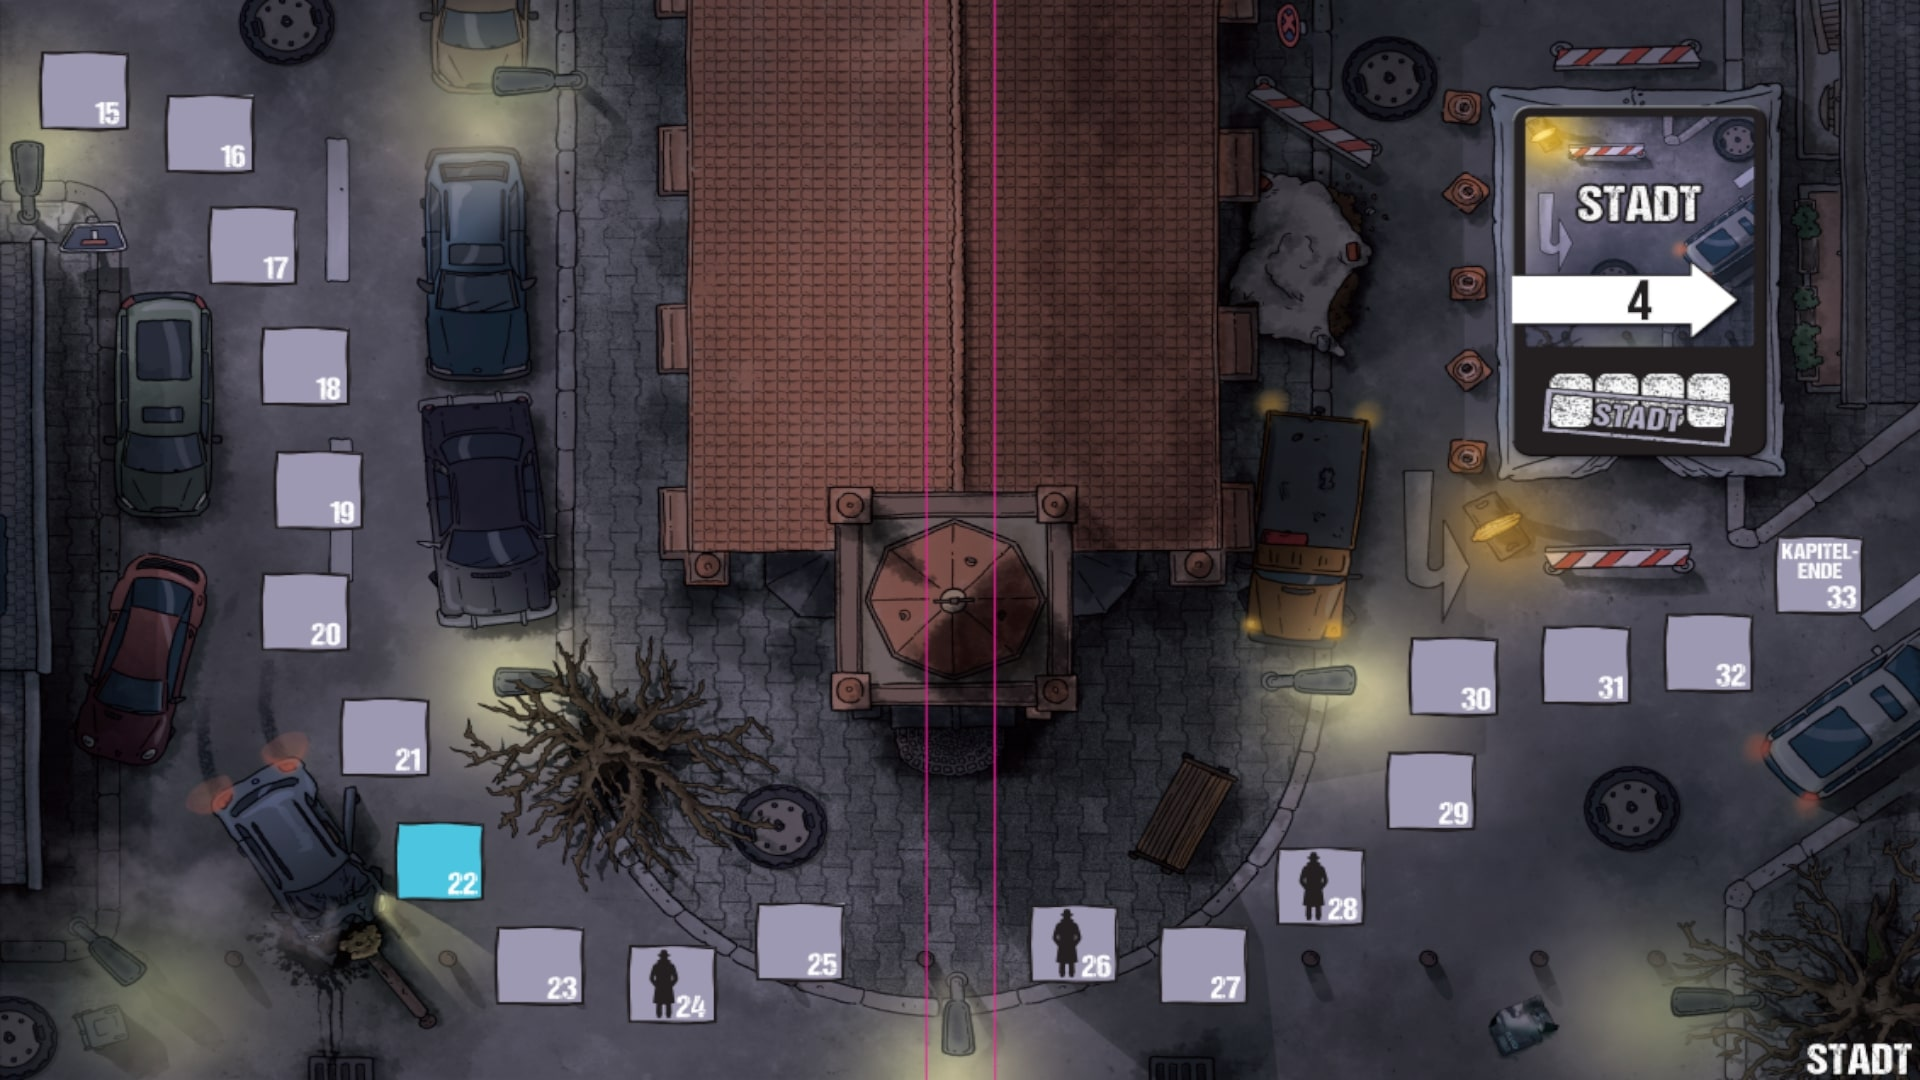
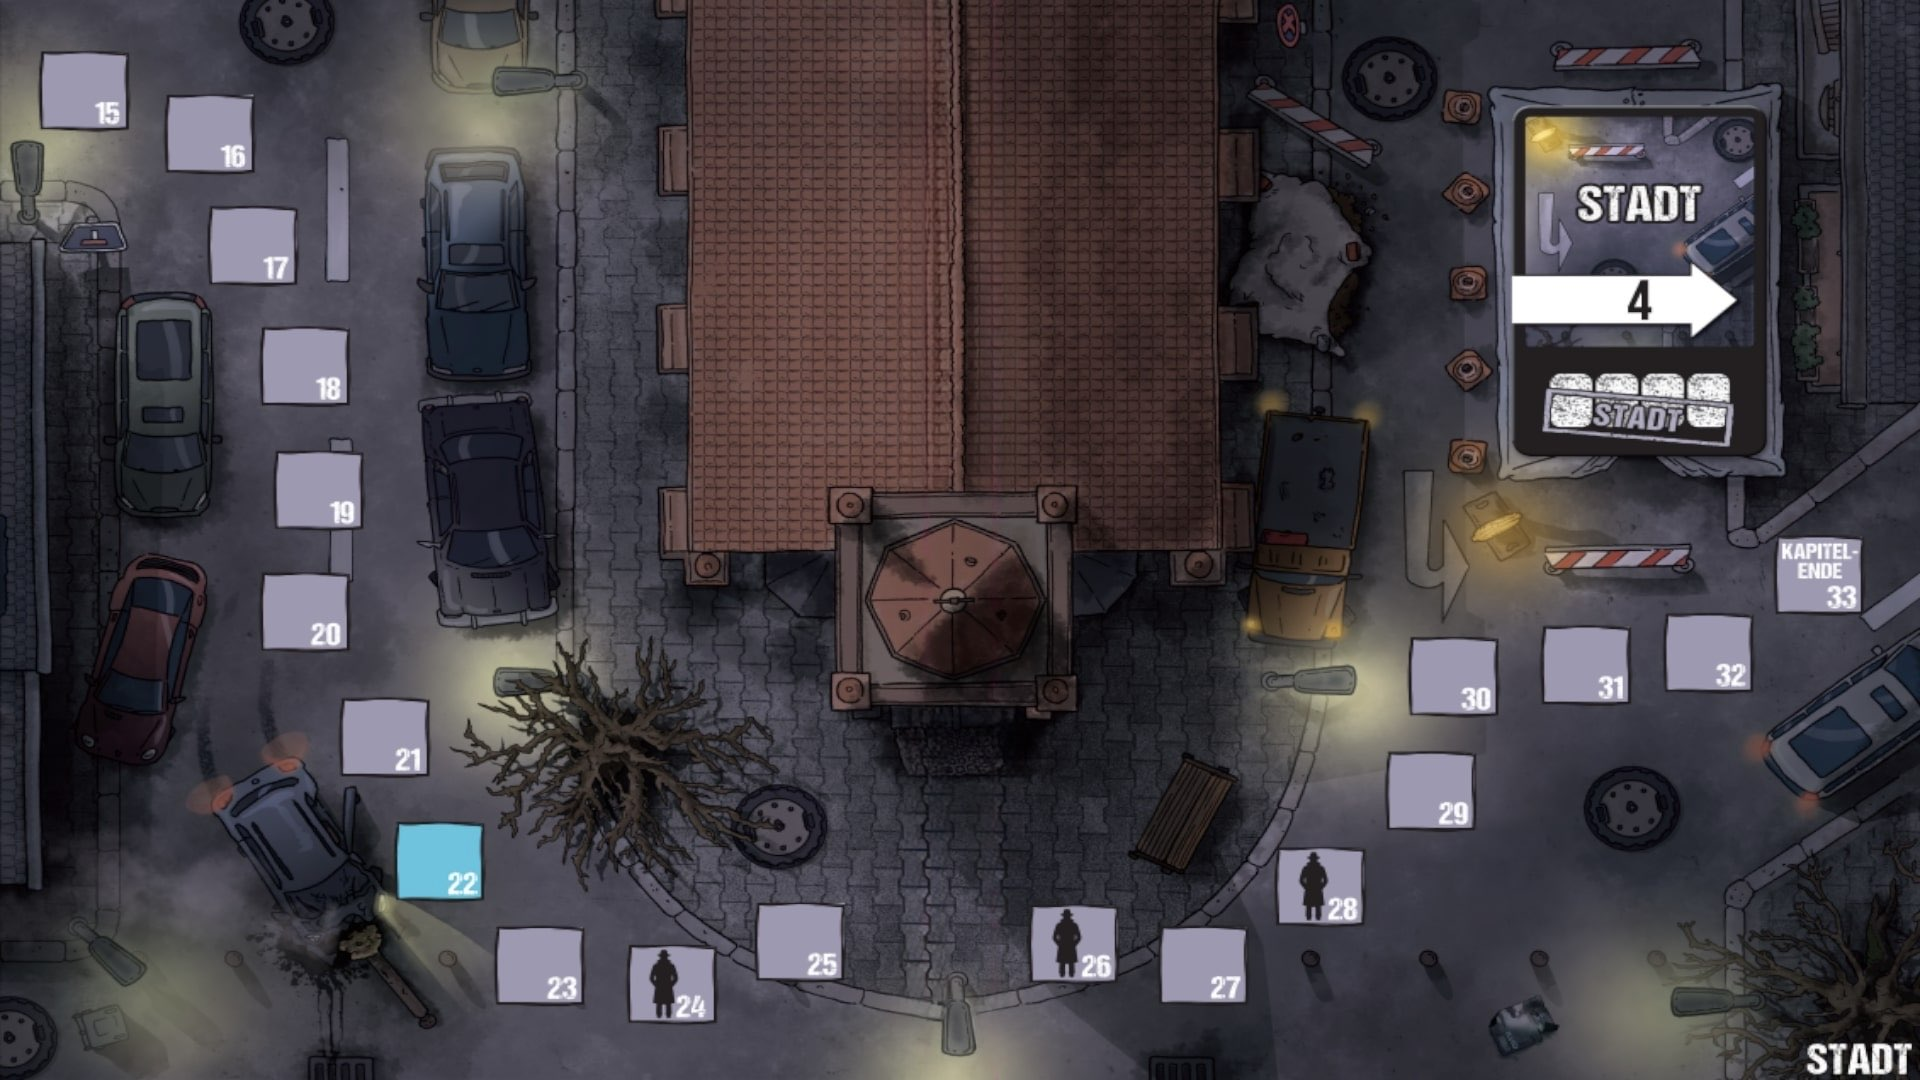
Alle Hintergründe gemacht ohne Streifen, Spielfigur eingefüt und Hintergrund von dieser transparent gemacht, sowie Größer der Figur angepasst

diff --git a/WebHouse-Client/GameForm.cs b/WebHouse-Client/GameForm.cs
@@ -67,7 +67,7 @@ public partial class GameForm : Form
 
     public void CreateGameField()
     {
-        // Bild laden
+        //Bild laden
         Image image = Image.FromStream(
             Assembly.GetExecutingAssembly().GetManifestResourceStream("WebHouse_Client.Resources.Background_Images." + GameLogic.CurrentRoom.Picture));
 
@@ -94,10 +94,12 @@ public partial class GameForm : Form
 
         // Neue PictureBox erzeugen
         figureBox = new PictureBox();
-        figureBox.Size = new Size(50, 50);
-        figureBox.BackColor = Color.Blue;
+        figureBox.Size = new Size(70, 80);
+        //figureBox.BackColor = Color.Blue;
+        figureBox.BackColor = Color.Transparent;
         figureBox.SizeMode = PictureBoxSizeMode.StretchImage;
-        //Bild für PictureBox: figureBox.Image = Image.FromFile("pfad_zur_figur.png");
+        figureBox.Image = Image.FromStream(
+            Assembly.GetExecutingAssembly().GetManifestResourceStream("WebHouse_Client.Resources.Background_Images.player.png"));
         roomImage.Controls.Add(figureBox);
 
         position = 0;
@@ -144,14 +146,6 @@ public partial class GameForm : Form
         SetFigurePosition();
     }
 
-/*
-    private void MarkiereAktuellesFeld() //Blau = eigene Figur
-    {
-        GameField[position].BackColor = Color.Blue;
-    }
-    
-*/
-
     private int GetPercentage(bool width, int percentage)
     {
         return (width ? this.ClientSize.Width : this.ClientSize.Height) / 100 * percentage; 
@@ -161,27 +155,27 @@ public partial class GameForm : Form
     {
         { Room.RoomName.HotelZimmer, new ()
         {
-            new (95, 115),
-            new (240, 115),
-            new (370, 190),
-            new (405, 305),
-            new (355, 420),
-            new (280, 540),
-            new (230, 665),
-            new (245, 795),
-            new (385, 820),
-            new (530, 850),
-            new (675, 855),
-            new (790, 750),
-            new (1055, 775),
-            new (1205, 780),
-            new (1345, 855),
-            new (1460, 765),
-            new (1465, 630),
-            new (1520, 495),
-            new (1595, 370),
-            new (1675, 250),
-            new (1750, 135),
+            new (95, 117),
+            new (240, 117),
+            new (370, 197),
+            new (405, 307),
+            new (355, 422),
+            new (280, 542),
+            new (230, 667),
+            new (245, 797),
+            new (385, 822),
+            new (530, 852),
+            new (675, 857),
+            new (790, 752),
+            new (1055, 772),
+            new (1205, 782),
+            new (1345, 857),
+            new (1460, 767),
+            new (1465, 632),
+            new (1520, 497),
+            new (1595, 372),
+            new (1675, 252),
+            new (1750, 137),
         } },
         { Room.RoomName.Hafen, new ()
         {
